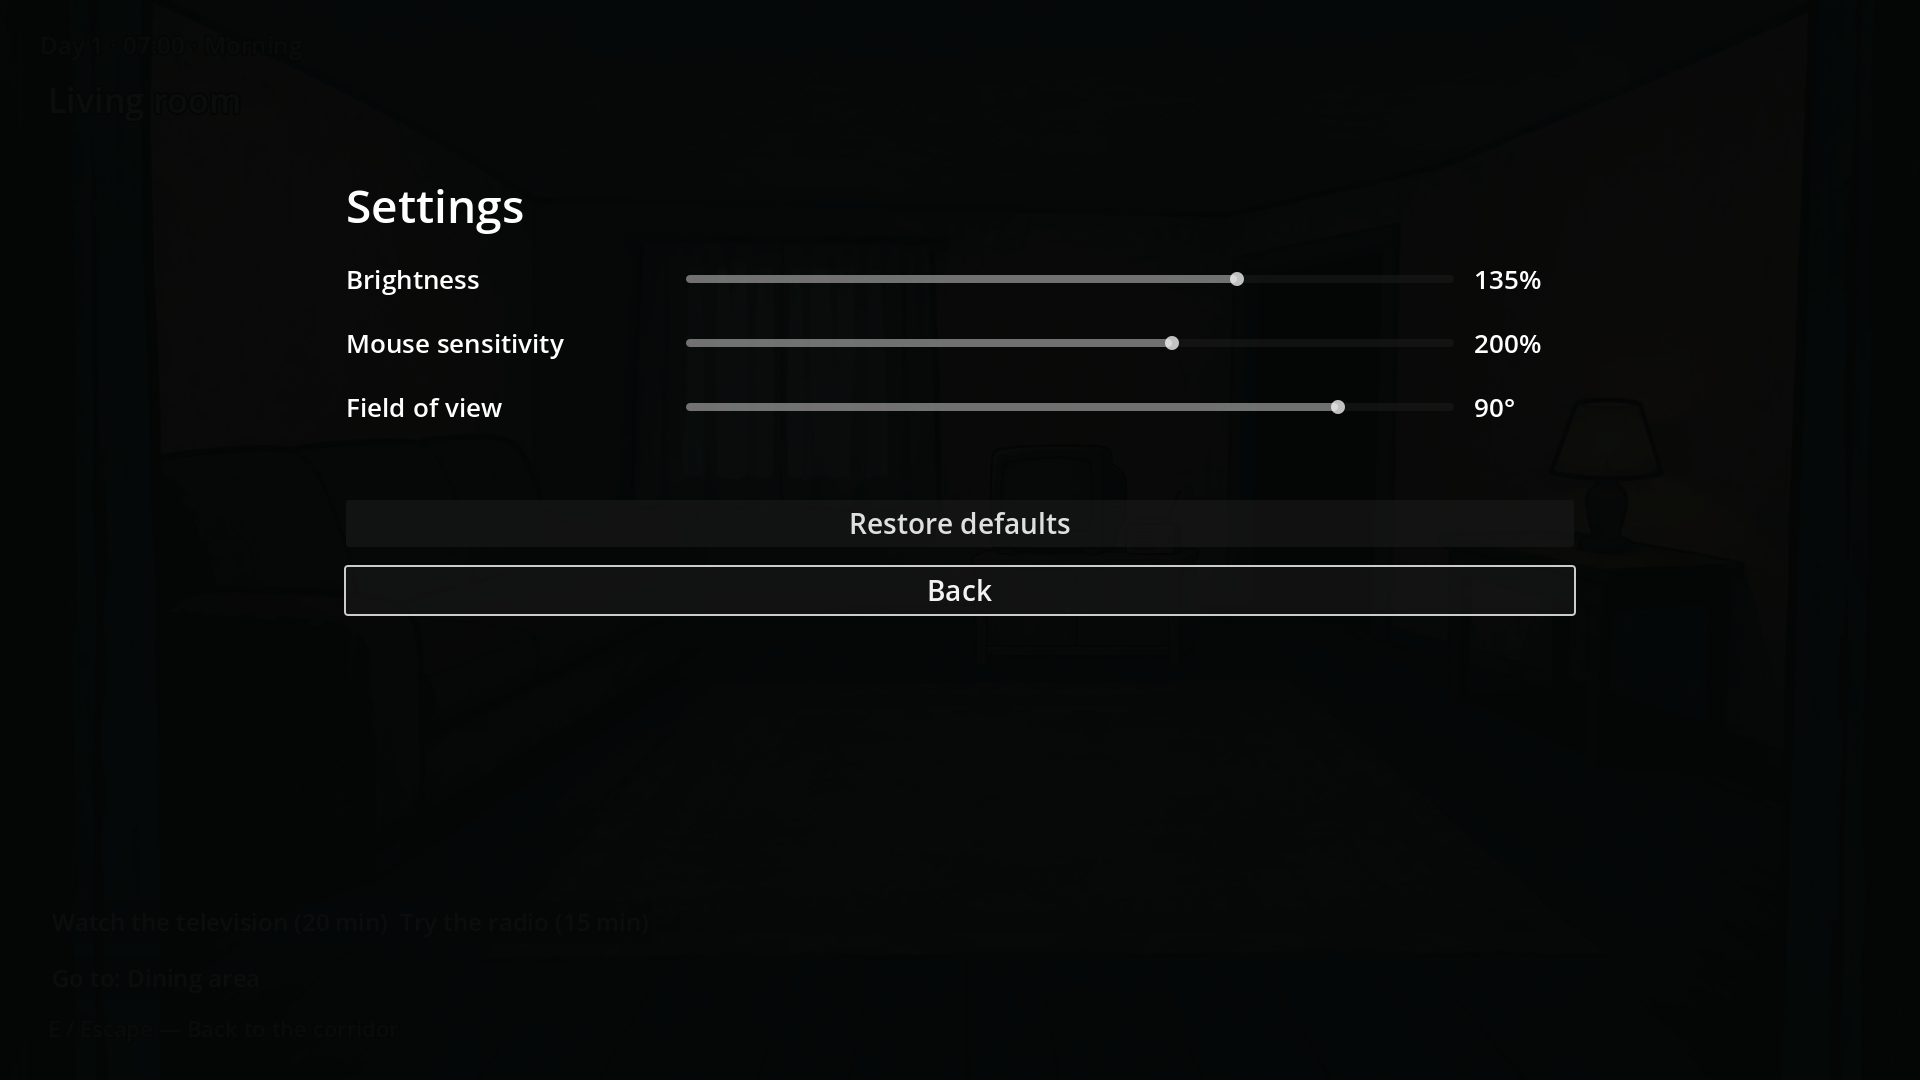
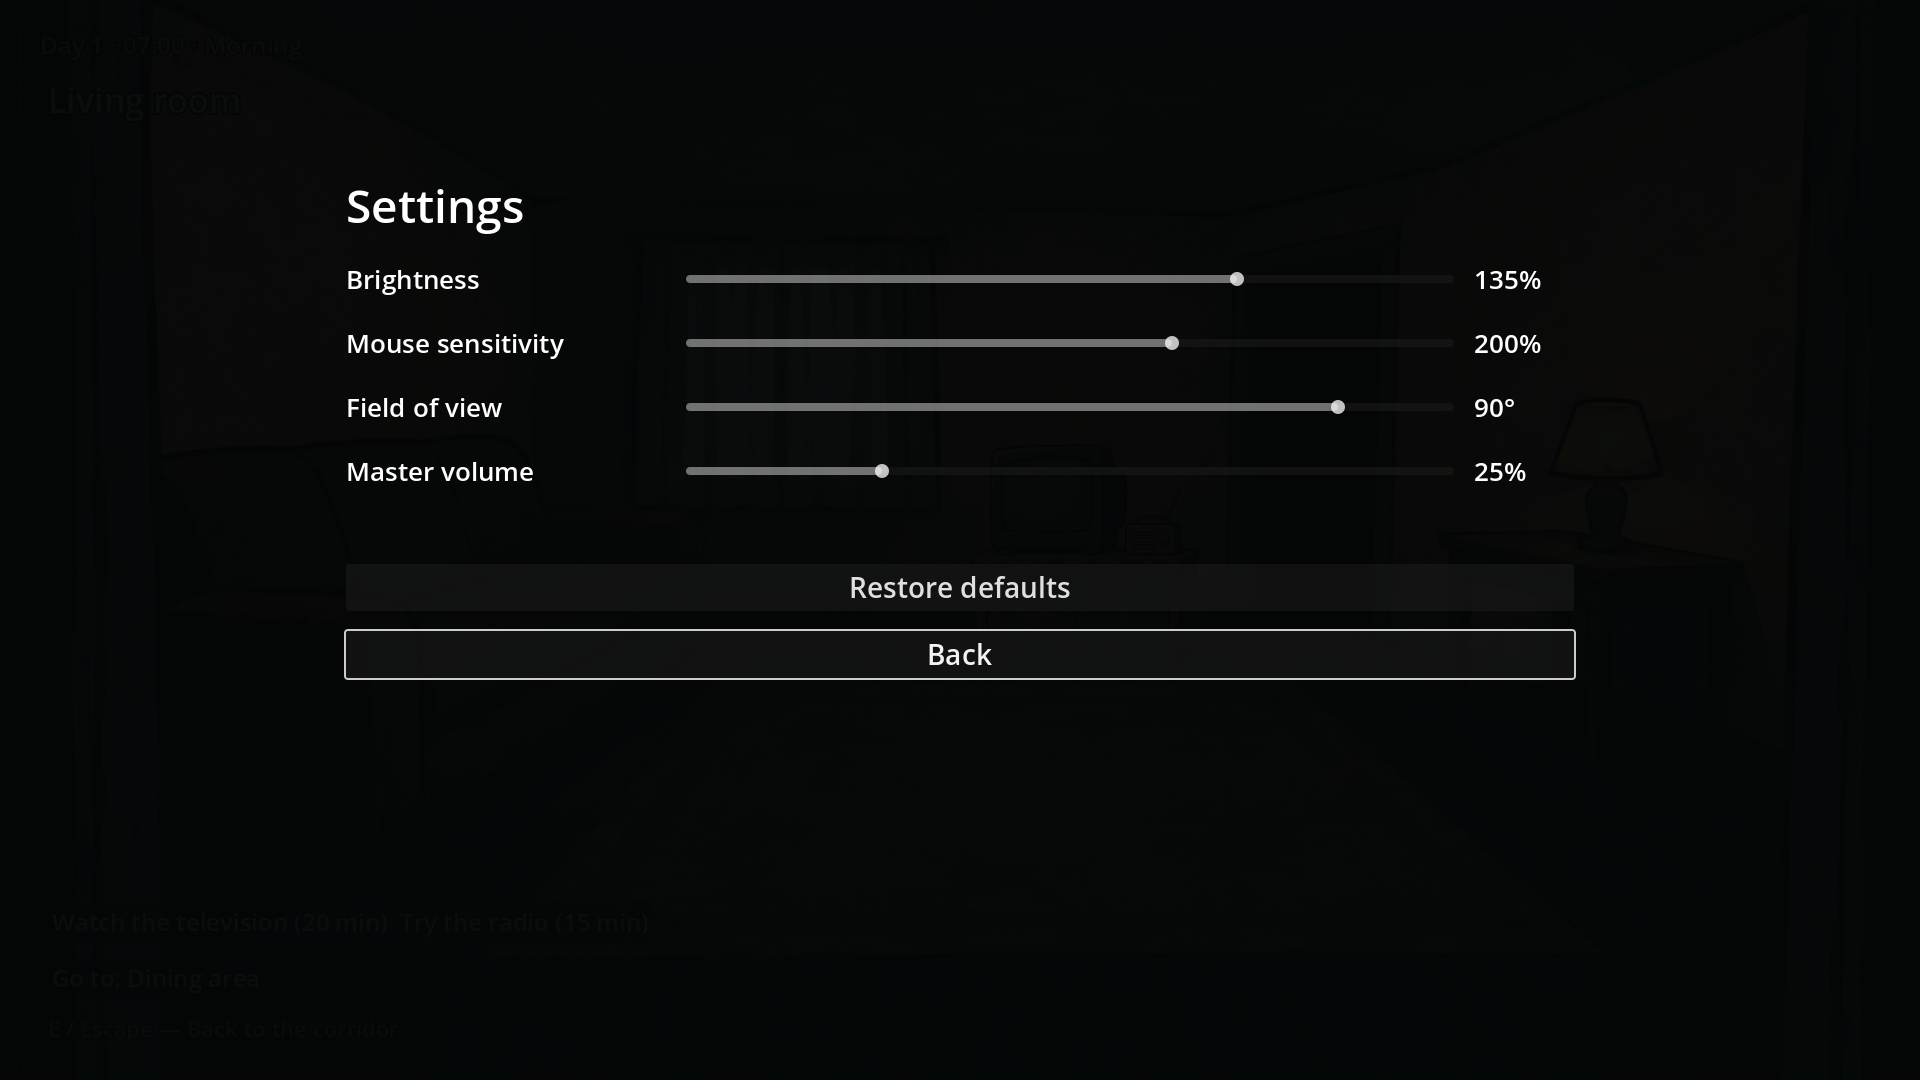
Add persistent master volume control with exact mute and live audio tests

Changed region(s): [[0.3438, 0.4278, 0.5625, 0.6417], [0.1875, 0.4278, 0.2812, 0.4583], [0.75, 0.4278, 0.8125, 0.4583]]

diff --git a/docs/qa/MasterVolume.md b/docs/qa/MasterVolume.md
@@ -1,0 +1,15 @@
+# Ana ses düzeyi — SETTINGS-AUDIO-001
+
+Amaç: menü ve duraklatma ayarlarından tüm mevcut sesleri denetlenebilir kılmak.
+
+Dosyalar: scripts/core/settings.gd (doğrulama, kalıcılık, Master uygulaması), scripts/ui/settings_view.gd (dördüncü kaydırıcı), localization/strings.csv (EN/TR anahtarı), tests/settings_test.gd. Düğüm: mevcut SettingsView/SettingsPanel içindeki master_volume HSlider; yeni sahne/autoload bağımlılığı yok. Motor: Godot4.7.2; projeyi import etmek yeterli.
+
+master_volume doğrusal kazanç0..1, adım.01, varsayılan1. Master bus AudioServer.get_bus_index ile bulunur. set_bus_volume_linear kazancı uygular; set_bus_mute sıfırda tam sessizlik ve pozitif değerde yeniden açılma sağlar. Referans: https://docs.godotengine.org/en/4.6/classes/class_audioserver.html . İki mevcut ses kaynağı varsayılan Master çıkışındadır. Başarılı ConfigFile.save sonrası canlı uygulama; yanlış tip/aralık reddedilir. Dosyada eksik değer eski tercihlerle uyumludur. Kampanya şeması ve seed değişmez.
+
+Deneme: ana menü→Ayarlar→Ana ses düzeyi;0%,25%,100%; yeniden açma; oyun içi Esc→Ayarlar; varsayılanlara dön. Ses sıfırda susmalı, artırılınca dönmeli. Altyazı/oyun metni değişmez. MENU_SETTINGS_MASTER_VOLUME gibi anahtar görünürse CSV yeniden import edilmeli. Master bulunamazsa bus çağrısı yapılmaz; mevcut projede Master motor tarafından sağlanır.
+
+Test: settings_test gerçek AudioServer gain/mute, persist/reload, dil değişimiyle koruma, geçersiz1.01 reddi ve defaults unmute ölçer. Gerçek Tab odak zinciri6 kontrol, EN/TR720p/1080p/1440p taşma denetimleri korunur. İzole Run-Tests kullanıcı kayıtlarına yazmaz. Dinleyerek öznel ses kalitesi doğrulanmış sayılmaz.
+
+Bitti ölçütü: tam regresyon, iki GPU ayar görüntüsünün incelenmesi, launcher sürüm doğrulaması. Sonraki bağımlılık: ses kategorileri ve nihai miksaj; mevcut başlık sadece ana düzeydir. Parlaklık/dünya görünümü bu işte değiştirilmez.
+
+Sonuç:24 paket / 6219 denetim PASS (WASAPI); GPU92 PASS, EN/TR görüntüler incelendi. Günlük: C:\Users\eyups\AppData\Local\Temp\tqh-tests-c71983fa4e45443a982a9269acbae31f. Sürüm0.1.4-dev.20261116.5. Ses dinleme testi yapılmadı; motor gain/mute değerleri ölçüldü.

diff --git a/docs/coordination/HANDOFF.md b/docs/coordination/HANDOFF.md
@@ -180,3 +180,6 @@ Yalnız test/araç/QA. Gerçek WASAPI ile etkin kapı+boru seslerinin sahne sök
 
 ## 2026-11-16 / Codex / SETTINGS-PLAYTEST-001
 Dayanaka4fdffa. Üç temel tercih ve ana/pause modalSettingsView, Settingsload/commit/signal, kamera ve sahne-yerelWorldPresentation, 2DRGB/alpha koruması. Localization6yeni anahtar, genel save hata cümlesi.70ayar denetimi; gerçekTab vepausegirdisi SubViewportpush_input. İlk rootinputfixture hatası düzeltildi. Son24paket6196WASAPIPASS, GPU72 ve EN/TR görselincelendi. İlkfullpassWASAPIsunumexit2ObjectDByarışı buldu; presentation testteardownayırtlıweakrefbekleme eklendi, üç89koşu ve sonfullpass temiz. Önceki Dummy-only açıklaması açıkça düzeltildi. Defaultartist/gamestate/schema aynı; sürüm0.1.3-dev.20261116.4. YeniMotion/lens hâlâ kapalı aday, varsayılıonay yok. Ayrı kalıcıdal, kanonik003dosyaları korunur.
+
+## 2026-11-16 / Codex / SETTINGS-AUDIO-001
+Dayanak8034a5f. Mevcut Settings üzerinden Master gain/mute; yeniautoload yok. Ana/pause dördüncüslider, CSVEN/TR; settings90 ve tam24/6219 PASS, GPU92;720p/1080p/1440p sınırları/gerçekTab6kontrol ve pauseESC korundu. docs/qa/MasterVolume.md ve master-volume-last-run.json kanıtı. Eski ses miksajı varsayılan100%, kampanyadan ayrı. Sürüm0.1.4-dev.20261116.5; sahiplik bırakıldı. Nihai sesmikseri tamamlanmış sayılmaz.

diff --git a/docs/coordination/STATUS.md b/docs/coordination/STATUS.md
@@ -88,3 +88,6 @@ QA-AUDIO-EXIT-001 incelendi: pipe WAV/playback uyarısı headless/Dummy koşulun
 
 ## Oynanabilir temel ayarlar / SETTINGS-PLAYTEST-001
 Sürüm0.1.3-dev.20261116.4: ana/pause menüsünde Ayarlar; parlaklık/fare/FOV, defaults ve geri, EN/TR. Tercihler user://settings.cfg içinde kampanyadan ayrı; dil-only eski dosya taşınır, invalid tip/range güvenli. Aktif3D/2D/karaktereRGB parlaklık uygulanır, alfa/UIdeğişmez. Varsayılan sanat aynı. GerçekTab modalodak, ikiEsc/pause,720p/1080p/1440p ve kalıcılık testleri var.24paket6196WASAPIPASS; GPU72, EN/TR incelendi. docs/qa/PlaytestSettings.md. Ses notu düzeltildi: yalnızDummy açıklaması fazla kesindi, erken test exit WASAPI'de de uyarı üretti; presentation artık weakref temizliğini bekliyor. Ürün sesine anlamsız yama yok. Tam ayarlar/grafik/ses/rebind/motion sonradan açık; Claude003 adayına dokunulmadı.
+
+## SETTINGS-AUDIO-001
+Ana ses düzeyi0–100% ve sıfırda mute uygulandı; kalıcılık/legacy/defaults ve6kontrol Tab zinciri.24paket/6219 WASAPIPASS; GPU92 ve EN/TR incelendi. Sürüm0.1.4-dev.20261116.5, aynı aktifworktree. Kategori sesleri ve öznel dinleme kontrolü açık.

diff --git a/docs/DecisionLog.md b/docs/DecisionLog.md
@@ -103,3 +103,6 @@ Sahip son evin renk/tasarım/ışık/atmosferini uzak ve basık buldu; baştan d
 
 ## SETTINGS-PLAYTEST-001 / 2026-11-16
 GDD temel PC ayarları ilk dilim: parlaklık, fare hassasiyeti, FOV. Varsayılanlar1.0/.0022/78 korunur; ana/pause menüsü aynıSettingsView kullanır, EN/TR. Tercihler kampanyadan ayrı; bozuk eski veri güvenli varsayılan alır, dil yazımı sayısal tercihleri silmez. RGB parlaklık alfa veya UI yazılarına uygulanmaz. Yeni mekanik/sanat kararı değil, mevcut gereksinim uygulamasıdır. Tam grafik/ses/rebind/motion ayarları bu dilimin dışında açık kalır. QA: docs/qa/PlaytestSettings.md.
+
+## K-SETTINGS-AUDIO-001 / 2026-11-16
+Onaylı ses erişilebilirliği kapsamının ilk adımı ana ses düzeyidir (0–100%). Settings mevcut Master bus kazancını uygular; sıfırda mute, pozitif değerde unmute. Yeni autoload veya yeni ses varlığı yok. Varsayılan 100% mevcut miksajı korur. Tercih kampanya dışındaki settings.cfg dosyasında; eksik eski değer 100%. Ayrı müzik/efekt/diyalog/ambiyans kontrolleri bu adımda tamamlanmış sayılmaz.

diff --git a/docs/coordination/TASKS.md b/docs/coordination/TASKS.md
@@ -53,3 +53,5 @@ dayanak commit. Bitirince dosya sahipliğini bırak ve HANDOFF.md'ye sonuç yaz.
 | HOUSE-ATMOS-004 | DEVİR | Codex ayrı worktree (deneme sürümü hazır; sanat kabulü açık) | Sahibin son reddi: normal ev hacmi, tam geniş üst koridor, özgün çizimsel yüzey, kaynağa dayalı ışık; Claude003 kanonik dosyaları korunur | 2026-11-16 |
 | QA-AUDIO-DUMMY-002 | BEKLİYOR | — | Erken test kapanışındaki WAV/playback uyarısı WASAPI üzerinde de yeniden görüldü; presentation teardown weakref bekleme ile düzeltildi. Dummy/üst motor araştırması açık; ek negatif komutun önceki policy reddi korunur | 2026-11-16 |
 | SETTINGS-PLAYTEST-001 | TAMAM | Codex (ayrı worktree; sahiplik bırakıldı) | Ana/pause ayar ekranı; parlaklık/fare/FOV; ayrı kalıcı tercihler, EN/TR, test/render | 2026-11-16 |
+
+| SETTINGS-AUDIO-001 | TAMAM | Codex ayrı worktree (sahiplik bırakıldı) | scripts/core/settings.gd, scripts/ui/settings_view.gd, localization/strings.csv, tests/settings_test.gd; ana ses düzeyi ve mute, mevcut tercihler/kampanya korunur | 2026-11-16 |
